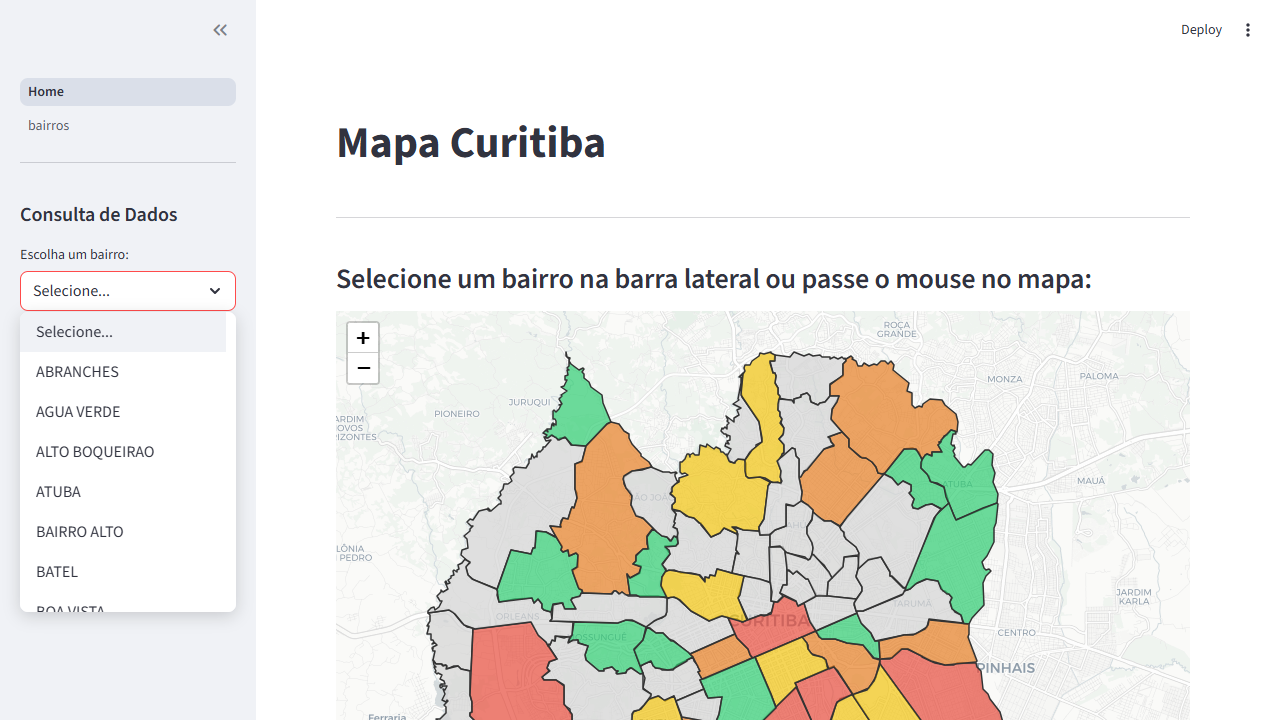
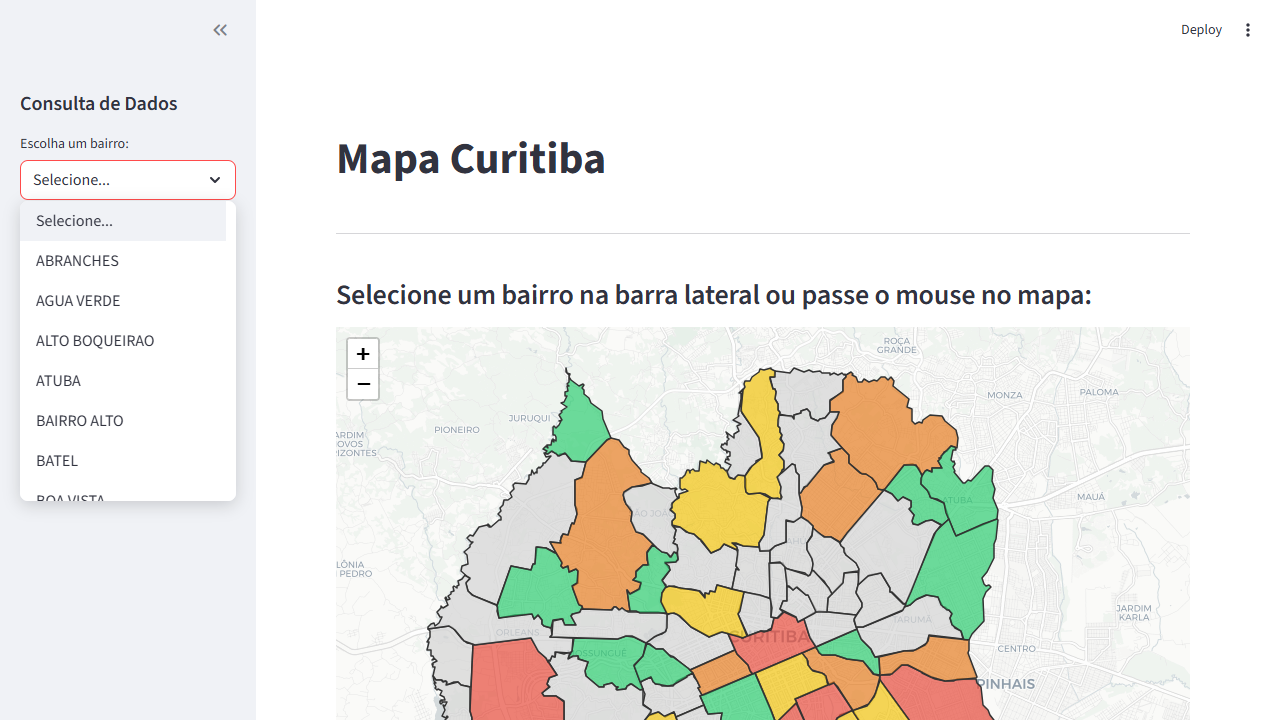
Atualização no app

diff --git a/Home.py b/Home.py
@@ -3,10 +3,19 @@ import pandas as pd
 import unicodedata
 import geopandas as gpd
 import folium
-from streamlit_folium import folium_static
+from streamlit_folium import st_folium
 import json
 
 st.set_page_config(page_title="Consulta de Crimes por Bairro", layout="wide")
+
+# Esconder navegação lateral (links Home/bairros)
+st.markdown("""
+<style>
+    [data-testid="stSidebarNav"] {
+        display: none;
+    }
+</style>
+""", unsafe_allow_html=True)
 
 # =================================================
 # FUNÇÕES DE LIMPEZA E CATEGORIZAÇÃO
@@ -106,6 +115,17 @@ def carregar_e_processar_dados():
     df_curitiba['PESO'] = df_curitiba[col_csv_crime].apply(definir_peso)
     stats = df_curitiba.groupby('chave_bairro')['PESO'].sum().reset_index()
     stats.columns = ['chave_bairro', 'SCORE']
+
+    # Calcular contagem de homicídios/mortes por bairro
+    def is_homicidio(crime):
+        c = str(crime).upper()
+        return any(x in c for x in ['HOMICIDIO', 'HOMICÍDIO', 'LATROCINIO', 'LATROCÍNIO', 'MORTE', 'CVLI'])
+
+    df_curitiba['IS_HOMICIDIO'] = df_curitiba[col_csv_crime].apply(is_homicidio)
+    homicidios = df_curitiba[df_curitiba['IS_HOMICIDIO']].groupby('chave_bairro').size().reset_index()
+    homicidios.columns = ['chave_bairro', 'HOMICIDIOS']
+    stats = stats.merge(homicidios, on='chave_bairro', how='left')
+    stats['HOMICIDIOS'] = stats['HOMICIDIOS'].fillna(0).astype(int)
 
     # Categorização de Segurança
     stats['CATEGORIA'] = 'Sem Classificação'
@@ -257,13 +277,14 @@ else:
         st.subheader("Selecione um bairro na barra lateral ou passe o mouse no mapa:")
 
         # Fazer merge dos dados
-        gdf_map_final = gdf_map.merge(df_stats[['chave_bairro', 'CATEGORIA', 'COR', 'SCORE']],
+        gdf_map_final = gdf_map.merge(df_stats[['chave_bairro', 'CATEGORIA', 'COR', 'SCORE', 'HOMICIDIOS']],
                                       on='chave_bairro', how='left')
 
         # Preencher valores NaN
         gdf_map_final['COR'] = gdf_map_final['COR'].fillna('#d3d3d3')
         gdf_map_final['CATEGORIA'] = gdf_map_final['CATEGORIA'].fillna('Sem Ocorrências')
         gdf_map_final['SCORE'] = gdf_map_final['SCORE'].fillna(0)
+        gdf_map_final['HOMICIDIOS'] = gdf_map_final['HOMICIDIOS'].fillna(0).astype(int)
 
         # Criar mapa
         centro = [-25.4284, -49.2733]
@@ -274,7 +295,7 @@ else:
         geojson_data = json.loads(geojson_str)
 
         # Adicionar camada GeoJSON com estilo baseado na propriedade COR
-        folium.GeoJson(
+        geojson_layer = folium.GeoJson(
             geojson_data,
             name="Bairros",
             style_function=lambda feature: {
@@ -290,14 +311,32 @@ else:
                 'fillOpacity': 0.9
             },
             tooltip=folium.GeoJsonTooltip(
-                fields=[col_name_geo, 'CATEGORIA', 'SCORE'],
-                aliases=['Bairro:', 'Classificação:', 'Score:'],
+                fields=[col_name_geo, 'CATEGORIA', 'SCORE', 'HOMICIDIOS'],
+                aliases=['Bairro:', 'Classificação:', 'Score:', 'Homicídios/Mortes:'],
                 style="font-size: 14px;"
             )
-        ).add_to(mapa)
+        )
+        geojson_layer.add_to(mapa)
 
-        # Exibir mapa usando folium_static
-        folium_static(mapa, width=1100, height=600)
+        # Exibir mapa usando st_folium com suporte a clique
+        map_data = st_folium(mapa, width=1100, height=600)
+
+        # Verificar se o usuário clicou em um bairro
+        if map_data and map_data.get("last_clicked"):
+            clicked = map_data["last_clicked"]
+            lat = clicked.get("lat")
+            lng = clicked.get("lng")
+            if lat and lng:
+                from shapely.geometry import Point
+                ponto = Point(lng, lat)
+                # Encontrar bairro pelo ponto clicado
+                for idx, row in gdf_map_final.iterrows():
+                    if row.geometry.contains(ponto):
+                        bairro_clicado = row[col_name_geo]
+                        if bairro_clicado and bairro_clicado in lista_bairros:
+                            st.query_params["regiao"] = bairro_clicado
+                            st.rerun()
+                        break
         
     else:
         st.error("ERRO: O mapa não pode ser exibido. O arquivo 'curitiba_bairros.geojson' não foi encontrado na mesma pasta do script.")

diff --git a/test_tooltip_click.py b/test_tooltip_click.py
@@ -1,0 +1,40 @@
+"""Testar tooltip com homicídios e clique no bairro"""
+import time
+from playwright.sync_api import sync_playwright
+
+with sync_playwright() as p:
+    browser = p.chromium.launch(headless=False)
+    page = browser.new_page()
+
+    print("Acessando aplicação Streamlit...")
+    page.goto("http://localhost:8501")
+    time.sleep(6)  # Aguardar carregamento completo
+
+    print("Tirando screenshot inicial...")
+    page.screenshot(path="test_click_1_inicial.png")
+
+    # Encontrar o iframe do mapa e clicar em um bairro
+    print("Procurando iframe do mapa...")
+    iframes = page.query_selector_all("iframe")
+    print(f"Encontrados {len(iframes)} iframes")
+
+    if iframes:
+        # Pegar bounding box do iframe
+        bbox = iframes[0].bounding_box()
+        if bbox:
+            # Clicar no centro do mapa
+            click_x = bbox['x'] + bbox['width'] / 2
+            click_y = bbox['y'] + bbox['height'] / 2
+            print(f"Clicando em ({click_x}, {click_y})...")
+
+            page.mouse.click(click_x, click_y)
+            time.sleep(4)
+            page.screenshot(path="test_click_2_apos_clique.png")
+
+            # Verificar se navegou para detalhes do bairro
+            page.screenshot(path="test_click_3_final.png")
+            print("Screenshots salvos!")
+
+    time.sleep(2)
+    browser.close()
+    print("\nTeste concluído!")

diff --git a/test_tooltip_final.py b/test_tooltip_final.py
@@ -1,0 +1,38 @@
+"""Testar tooltip com homicídios"""
+import time
+from playwright.sync_api import sync_playwright
+
+with sync_playwright() as p:
+    browser = p.chromium.launch(headless=False)
+    page = browser.new_page()
+
+    print("Acessando aplicação Streamlit...")
+    page.goto("http://localhost:8501")
+    time.sleep(6)
+
+    # Limpar seleção atual se houver
+    limpar_btn = page.query_selector("text=Limpar Seleção")
+    if limpar_btn:
+        limpar_btn.click()
+        time.sleep(3)
+
+    print("Tirando screenshot do mapa...")
+    page.screenshot(path="test_final_1_mapa.png")
+
+    # Mover mouse sobre o mapa para ver tooltip
+    iframes = page.query_selector_all("iframe")
+    if iframes:
+        bbox = iframes[0].bounding_box()
+        if bbox:
+            # Mover para diferentes posições
+            for i, (dx, dy) in enumerate([(0.3, 0.5), (0.5, 0.4), (0.6, 0.6)]):
+                x = bbox['x'] + bbox['width'] * dx
+                y = bbox['y'] + bbox['height'] * dy
+                page.mouse.move(x, y)
+                time.sleep(1.5)
+                page.screenshot(path=f"test_final_2_hover_{i+1}.png")
+                print(f"Screenshot {i+1} salvo!")
+
+    time.sleep(2)
+    browser.close()
+    print("Teste concluído!")

diff --git a/test_debug_click.py b/test_debug_click.py
@@ -1,0 +1,33 @@
+"""Testar debug do clique"""
+import time
+from playwright.sync_api import sync_playwright
+
+with sync_playwright() as p:
+    browser = p.chromium.launch(headless=False)
+    page = browser.new_page()
+    page.set_viewport_size({"width": 1400, "height": 1200})
+
+    print("Acessando aplicação de debug...")
+    page.goto("http://localhost:8502")
+    time.sleep(6)
+
+    # Clicar no mapa
+    iframes = page.query_selector_all("iframe")
+    if iframes:
+        bbox = iframes[0].bounding_box()
+        if bbox:
+            click_x = bbox['x'] + bbox['width'] / 2
+            click_y = bbox['y'] + bbox['height'] / 2
+            print(f"Clicando em ({click_x}, {click_y})...")
+            page.mouse.click(click_x, click_y)
+            time.sleep(3)
+
+            # Scroll para ver os dados retornados
+            page.evaluate("window.scrollTo(0, document.body.scrollHeight)")
+            time.sleep(1)
+            page.screenshot(path="debug_3_dados.png", full_page=True)
+            print("Screenshot salvo!")
+
+    time.sleep(2)
+    browser.close()
+    print("Teste concluído!")

diff --git a/test_st_folium_debug.py b/test_st_folium_debug.py
@@ -1,0 +1,31 @@
+"""Script para debugar st_folium"""
+import streamlit as st
+import geopandas as gpd
+import folium
+from streamlit_folium import st_folium
+import json
+
+st.set_page_config(page_title="Debug st_folium", layout="wide")
+
+# Carregar dados
+gdf = gpd.read_file("curitiba_bairros_corrigido.geojson")
+gdf = gdf.to_crs(epsg=4326)
+
+# Criar mapa
+mapa = folium.Map(location=[-25.4284, -49.2733], zoom_start=12)
+
+# Adicionar GeoJSON
+geojson_data = json.loads(gdf.to_json())
+folium.GeoJson(
+    geojson_data,
+    style_function=lambda f: {'fillColor': '#3186cc', 'color': '#333', 'weight': 1, 'fillOpacity': 0.5},
+    tooltip=folium.GeoJsonTooltip(fields=['NOME'], aliases=['Bairro:'])
+).add_to(mapa)
+
+# Exibir mapa
+st.write("Clique em um bairro e veja os dados retornados:")
+map_data = st_folium(mapa, width=800, height=500)
+
+# Mostrar dados retornados
+st.write("### Dados retornados pelo st_folium:")
+st.json(map_data)
